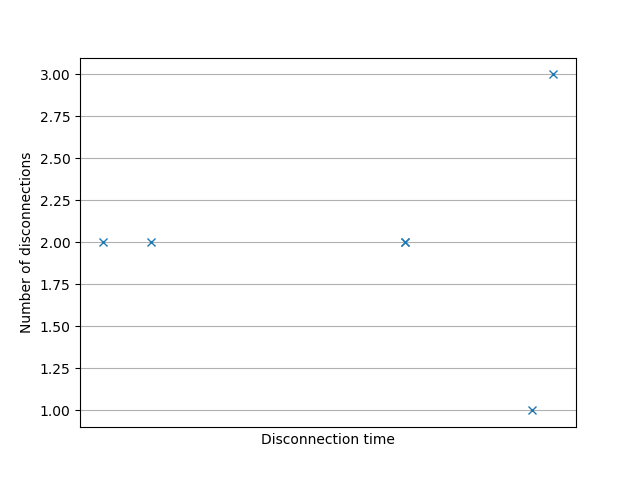
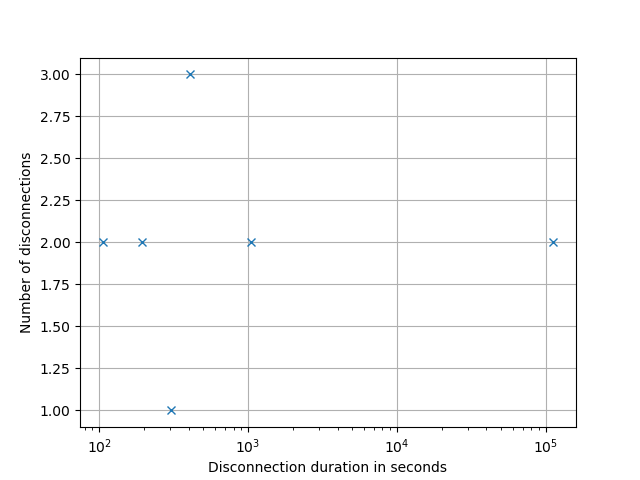
last changes

diff --git a/atlas_outage_plot.py b/atlas_outage_plot.py
@@ -92,13 +92,13 @@ def plot_disco_time(disco_event):
 
 def plot_disco_occurence(disco_duration):
     disco_num = [len(d) for d in disco_duration.values()]
-    disco_avg = [sum(d)/(3600*len(d)) for d in disco_duration.values()]
+    disco_avg = [sum(d)/len(d) for d in disco_duration.values()]
 
     fig, ax = plt.subplots()
-    #ax.set_xscale("log", nonposy='clip')
+    ax.set_xscale("log")
     ax.grid(True)
     ax.plot(disco_avg,disco_num,'x')
-    plt.xlabel('Disconnection time')
+    plt.xlabel('Disconnection duration in seconds')
     plt.ylabel('Number of disconnections')
     fig.savefig('disco_occurence_{}.png'.format(cc))
     plt.close(fig)
